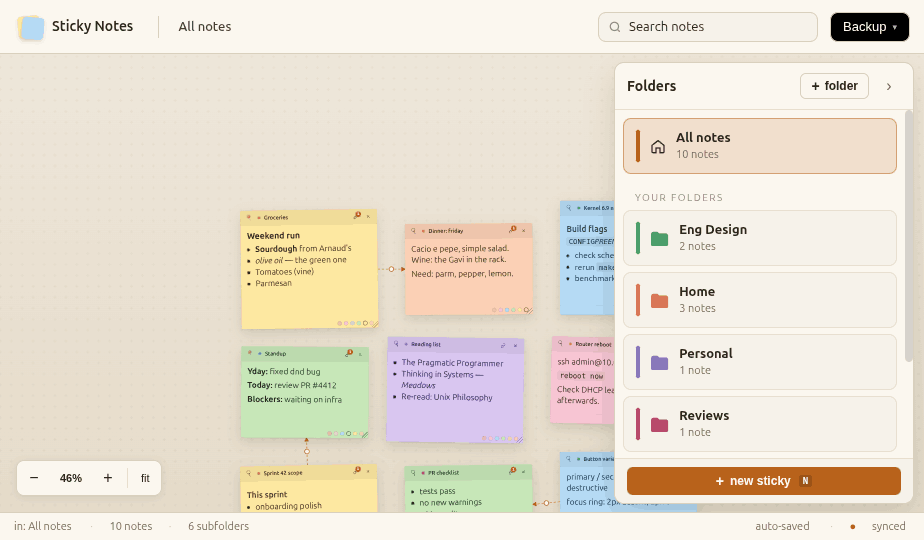
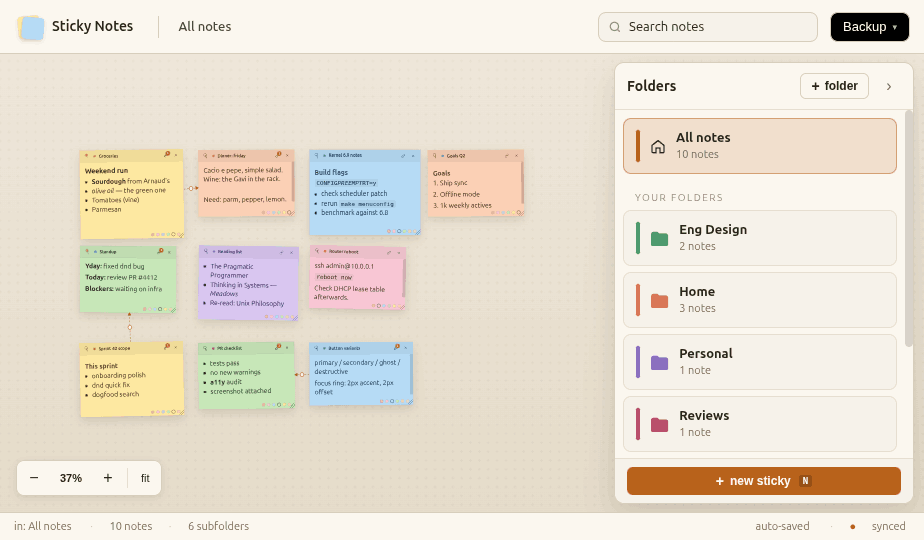
Refresh README with Claude Design's updated copy + regenerated screenshots
Drops the zoomed-out overview shot, tightens the hero/features prose,
and shuffles the macOS code-signing note to sit immediately after the
install table instead of between macOS entries and Web.

diff --git a/README.md b/README.md
@@ -27,13 +27,11 @@ This is that app. It runs on **Linux, macOS, and in the browser**.
 
 ## Screenshots
 
-**Your whole desk, at a glance.** Pan, zoom, and drop notes wherever they feel right. Link two notes by clicking the link icon on one and then the other — connections show up as dashed arrows on the canvas.
+**Your whole desk, at a glance.** Pan, zoom, and drop notes wherever they feel right. `[[wiki-links]]` between notes render as dashed arrows on the canvas.
 
 ![Workspace overview](readme-assets/01-hero.png)
 
 **Folders that aren't an afterthought.** Colored folder badges, per-folder note counts, and a drawer that actually gets out of the way when you want it to.
-
-![Zoomed out view](readme-assets/02-overview.png)
 
 **Three looks — because a 2pm notes session and a 2am notes session are not the same notes session.**
 
@@ -41,8 +39,8 @@ Paper is the default. Flat if you want something quieter. Terminal if you've mad
 
 <table>
 <tr>
-<td><img src="readme-assets/04-flat.png" alt="Flat theme" /></td>
-<td><img src="readme-assets/03-terminal.png" alt="Terminal theme" /></td>
+<td><img src="readme-assets/03-flat.png" alt="Flat theme" /></td>
+<td><img src="readme-assets/02-terminal.png" alt="Terminal theme" /></td>
 </tr>
 <tr>
 <td align="center"><i>Flat</i></td>
@@ -50,9 +48,9 @@ Paper is the default. Flat if you want something quieter. Terminal if you've mad
 </tr>
 </table>
 
-**Close up.** Markdown body, link arrows, color-coded folder badges. Click the red pushpin in a note's header — pinned notes follow you into every folder, so the important stuff is always one click away.
+**Close up.** Markdown, tags, pushpins, link arrows. Click the red pushpin in the corner to pin — pinned notes stay on top.
 
-![Close-up of notes with link arrow](readme-assets/05-closeup.png)
+![Close-up of notes with link arrow](readme-assets/04-closeup.png)
 
 ---
 
@@ -82,16 +80,16 @@ A short list, because the whole point of this project is that somebody should ha
 
 Grab the latest from [**Releases**](https://github.com/faridjaff/sticky-notes/releases/latest) and pick the file for your platform:
 
-#### Note for macOS
-
-The macOS builds are not code-signed. If your Mac refuses to open the downloaded app, build from source instead — instructions below. If this project gathers enough traction, I'll look into the Apple Developer Program so future Mac builds are signed and open with no friction.
-
 | Platform | File | How to install |
 |---|---|---|
 | **Ubuntu / Debian** | `sticky-notes_<ver>_amd64.deb` | `sudo dpkg -i sticky-notes_<ver>_amd64.deb` |
 | **Linux (portable)** | `Sticky Notes-<ver>.AppImage` | `chmod +x` and double-click — no install needed |
 | **macOS — Apple Silicon (M-series)** | `Sticky Notes-<ver>-arm64.dmg` | mount → drag to `/Applications` |
 | **macOS — Intel** | `Sticky Notes-<ver>.dmg` | mount → drag to `/Applications` |
+
+#### Note for macOS
+
+The macOS builds are not code-signed. If your Mac refuses to open the downloaded app, build from source instead — instructions below.
 
 ### Web (no install)
 
